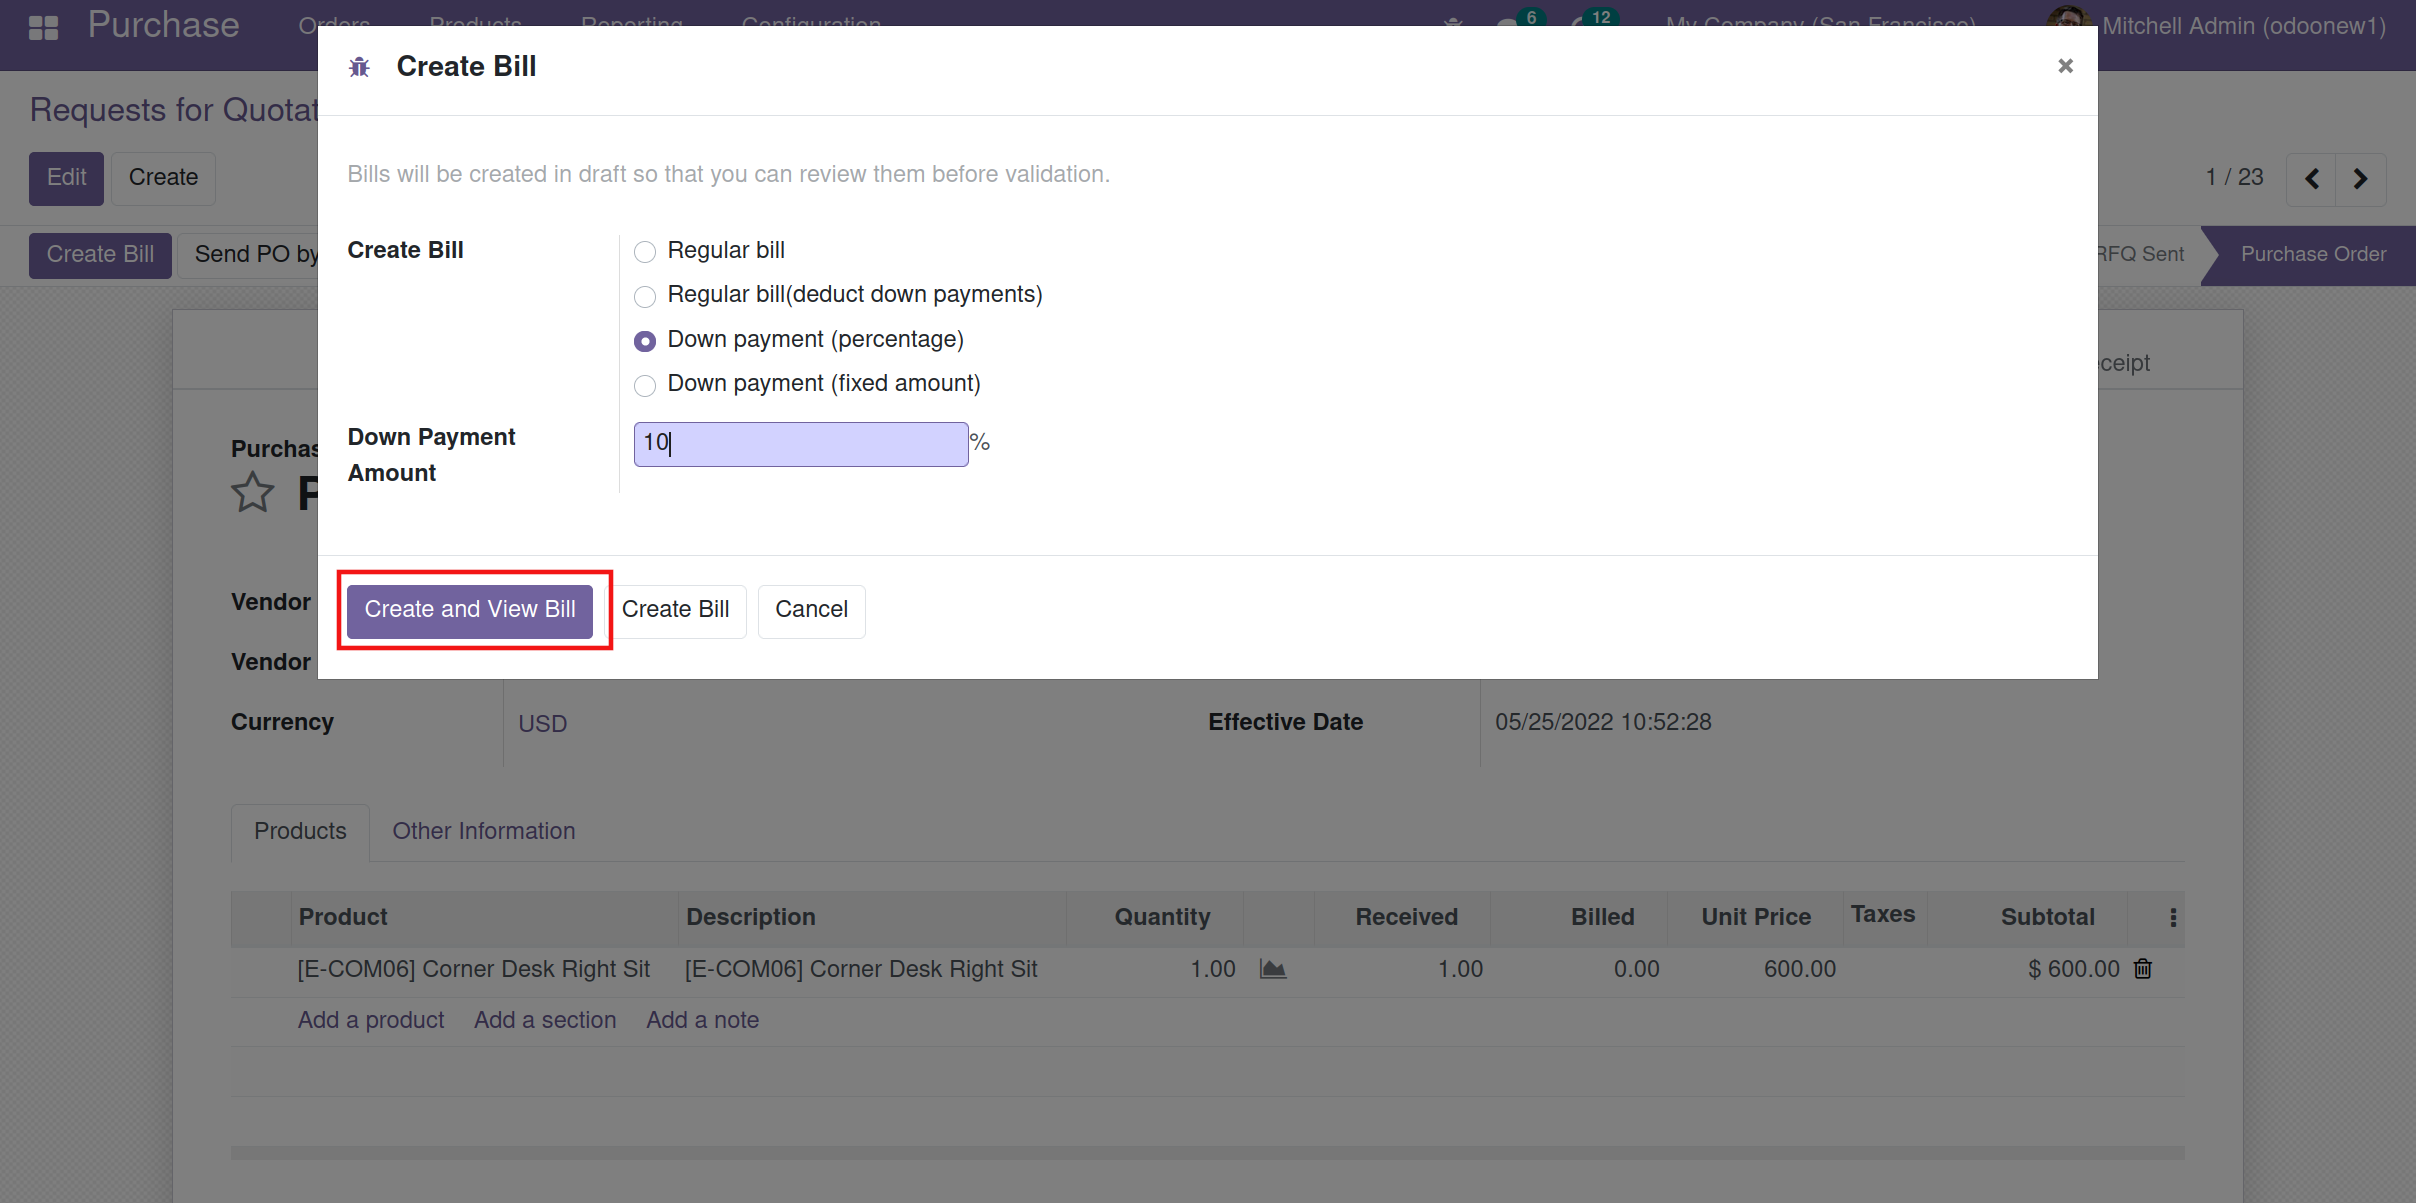
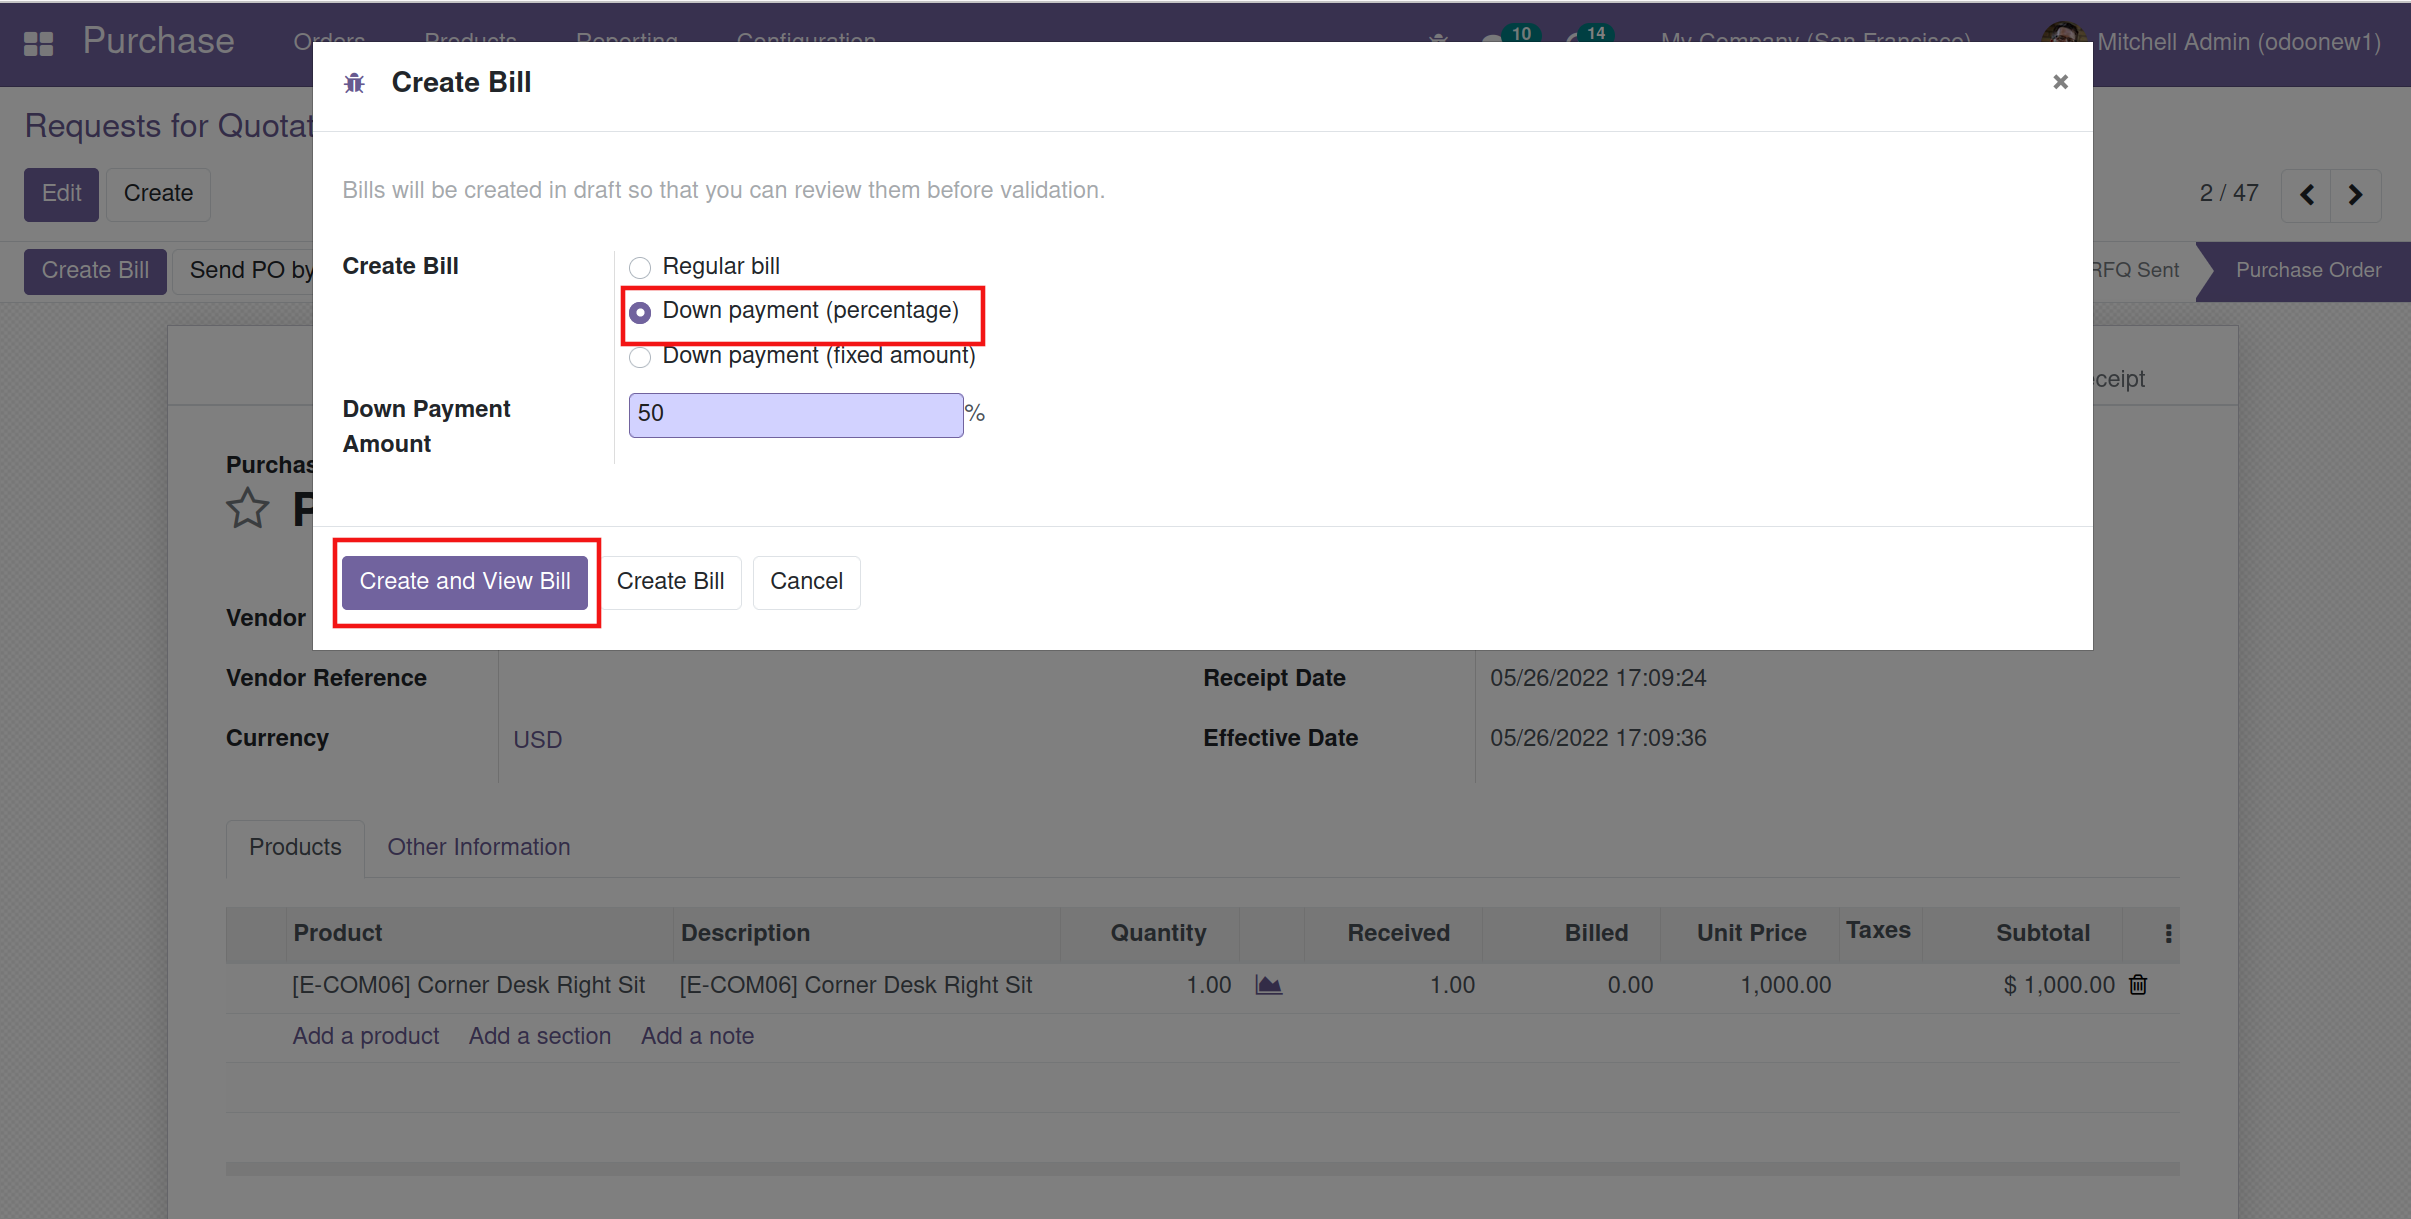
[ADD] purchase advance payment module final changes, hr holiday module changes

diff --git a/purchase_payment_advance/wizard/purchase_advance_payment.py b/purchase_payment_advance/wizard/purchase_advance_payment.py
@@ -1,4 +1,4 @@
-from odoo import fields, models, _
+from odoo import fields, api, models, _
 from odoo.exceptions import UserError
 import time
 from odoo.tools.float_utils import float_is_zero
@@ -9,9 +9,21 @@ class PurchaseAdvancePaymentInv(models.TransientModel):
     _name = "purchase.advance.payment"
     _description = "Purchase Advance Payment Invoice"
 
+    @api.model
+    def _default_has_down_payment(self):
+        if self._context.get(
+                'active_model') == 'purchase.order' and self._context.get(
+                'active_id', False):
+            po_order = self.env['purchase.order'].browse(
+                self._context.get('active_id'))
+            return po_order.order_line.filtered(
+                lambda po_order_line: po_order_line.is_advance_payment
+            )
+
+        return False
+
     advance_payment_method = fields.Selection([
-        ('regular', 'Regular bill'),
-        ('delivered', 'Regular bill(deduct down payments)'),
+        ('delivered', 'Regular bill'),
         ('percentage', 'Down payment (percentage)'),
         ('fixed', 'Down payment (fixed amount)')
         ], string='Create Bill', default='delivered', required=True,
@@ -19,7 +31,7 @@ class PurchaseAdvancePaymentInv(models.TransientModel):
              " for billing, according to their control policy "
              "(based on ordered or received quantity).")
     deduct_down_payments = fields.Boolean('Deduct down payments', default=True)
-    has_down_payments = fields.Boolean('Has down payments', readonly=True)
+    has_down_payments = fields.Boolean('Has down payments',default=_default_has_down_payment, readonly=True)
     product_id = fields.Many2one('product.product',
                                  string='Down Payment Product',
                                  domain=[('type', '=', 'service')])
@@ -49,6 +61,7 @@ class PurchaseAdvancePaymentInv(models.TransientModel):
             'type': 'service',
              'purchase_method': 'purchase',
             'company_id': False,
+            'supplier_taxes_id': False
         }
 
     # prepare purchase order lines
@@ -119,11 +132,8 @@ class PurchaseAdvancePaymentInv(models.TransientModel):
         purchase_orders = self.env['purchase.order'].browse(
             self.env.context.get('active_id'))
         if self.advance_payment_method == 'delivered':
-            deducted_regular_invoice = purchase_orders.action_create_invoice()
-            if self._context.get('open_invoices', False):
-                return deducted_regular_invoice
-        elif self.advance_payment_method == 'regular':
-            regular_invoice = self.regular_invoice(purchase_orders)
+            regular_invoice = self.regular_invoice(
+                purchase_orders, final=self.deduct_down_payments)
             if self._context.get('open_invoices', False):
                 return purchase_orders.action_view_invoice(regular_invoice)
         else:
@@ -160,7 +170,7 @@ class PurchaseAdvancePaymentInv(models.TransientModel):
                     return purchase_orders.action_view_invoice(invoice)
 
     # to create the regular bill
-    def regular_invoice(self, orders):
+    def regular_invoice(self, orders, final=False):
         """Create the invoice associated to the PO.
         """
         # 1) Prepare invoice vals and clean-up the section lines
@@ -171,7 +181,7 @@ class PurchaseAdvancePaymentInv(models.TransientModel):
             order = order.with_company(order.company_id)
             # Invoice values.
             invoice_vals = self._prepare_regular_invoice(order)
-            invoiceable_lines = self._get_invoiceable_lines(order)
+            invoiceable_lines = self._get_invoiceable_lines(order, final)
             # Invoice line values (keep only necessary sections).
             for line in invoiceable_lines:
                 res = {
@@ -283,8 +293,9 @@ class PurchaseAdvancePaymentInv(models.TransientModel):
         return invoice_vals
 
     # to get the po lines to invoice for a regular bill
-    def _get_invoiceable_lines(self, order):
+    def _get_invoiceable_lines(self, order, final):
         """Return the invoiceable lines for order `self`."""
+        down_payment_line_ids = []
         invoiceable_line_ids = []
         pending_section = None
         precision = self.env['decimal.precision'].precision_get(
@@ -297,9 +308,16 @@ class PurchaseAdvancePaymentInv(models.TransientModel):
             if line.display_type != 'line_note' and float_is_zero(
                     line.qty_to_invoice, precision_digits=precision):
                 continue
-            if line.qty_to_invoice > 0 or line.display_type == 'line_note':
+            if line.qty_to_invoice > 0 or (line.qty_to_invoice < 0 and final) \
+                    or line.display_type == 'line_note':
+                if line.is_advance_payment:
+                    # Keep down payment lines separately, to put them together
+                    # at the end of the invoice, in a specific dedicated section.
+                    down_payment_line_ids.append(line.id)
+                    continue
                 if pending_section:
                     invoiceable_line_ids.append(pending_section.id)
                     pending_section = None
                 invoiceable_line_ids.append(line.id)
-        return self.env['purchase.order.line'].browse(invoiceable_line_ids)
+        return self.env['purchase.order.line'].browse(
+            invoiceable_line_ids+ down_payment_line_ids)

diff --git a/hr_holiday_management/models/hr_leave.py b/hr_holiday_management/models/hr_leave.py
@@ -7,7 +7,7 @@ class HrLeaveType(models.Model):
 
     leave_validator_line_ids = fields.One2many('hr.leave.type.lines',
                                                "line_id")
-    allocation_validation_type = fields.Selection(
+    leave_validation_type = fields.Selection(
         selection_add=[('multi', 'Multiple Approval')],
         ondelete={'multi': 'set default'})
 
@@ -26,15 +26,29 @@ class HrLeave(models.Model):
 
     approve_line_ids = fields.One2many('hr.leave.lines', "line_id")
     is_multi_approval = fields.Boolean("multi approval")
-    is_approved = fields.Boolean("approved")
+    is_approved = fields.Boolean("approved", compute="compute_is_approved")
     approval_count = fields.Integer("count")
+
+    # @api.depends(
+    #     "holiday_status_id.leave_validator_line_ids.leave_validator_id")
+    def compute_is_approved(self):
+        for record in self:
+            record.is_approved = True
+            for line in record.approve_line_ids:
+                if self.env.uid == line.approvers_id.id and \
+                        line.status == 'to approve':
+                    record.is_approved = False
+                    break
+                else:
+                    record.is_approved = True
 
     # when change time off type  approvers are added if it is based on
     # multiple approval
     @api.onchange('holiday_status_id')
     def _onchange_holiday_status_id(self):
         vals = []
-        if self.holiday_status_id.allocation_validation_type == 'multi':
+        self.approval_count = 0
+        if self.holiday_status_id.leave_validation_type == 'multi':
             self.update({'is_multi_approval': True})
         else:
             self.update({'is_multi_approval': False})
@@ -53,7 +67,7 @@ class HrLeave(models.Model):
                 self.approval_count = self.approval_count+1
                 if self.approval_count == len(self.approve_line_ids):
                     self.state = 'validate1'
-                    self.is_approved = True
+                    # self.is_approved = True
 
 
 class HrLeaveLines(models.Model):
